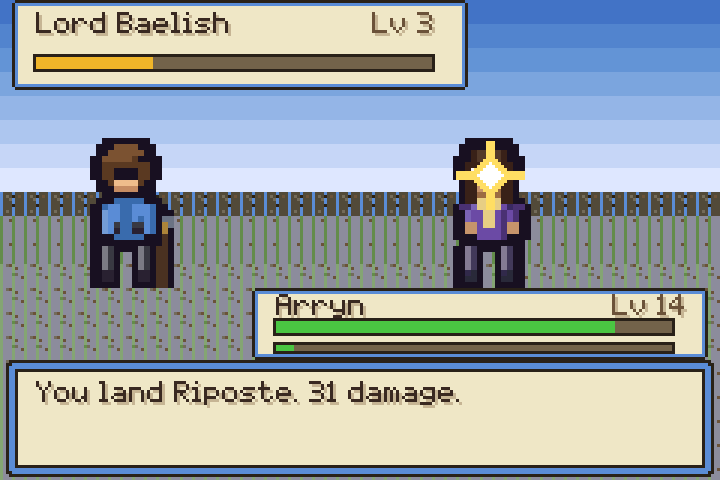
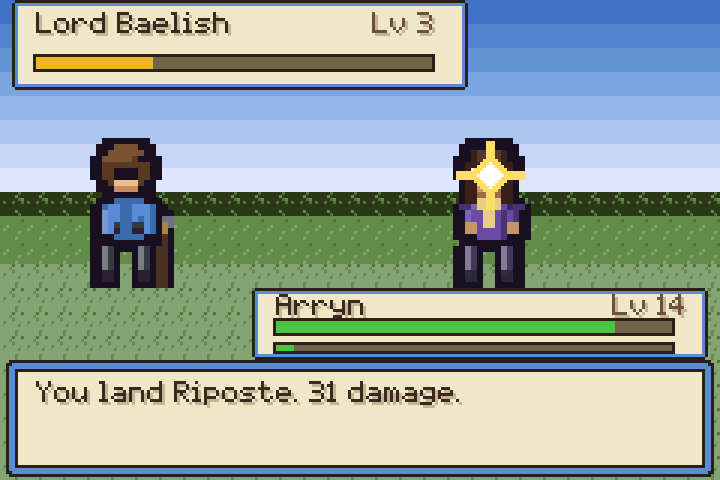
Paving laid back, so a wall can come forward
A stone town had the floor you walk on and the walls you cannot at the same
value, in the same grey, in the same size of block. In a grass town it is
obvious where the ground ends; in the Eyrie the street, the houses and the
keep were one continuous surface and nothing in the picture said which of it
you could stand on.

The paving is darker and flatter now, with the joint coming up out of near
black, and there are four courses of it instead of one, so a yard does not
tile into graph paper. The walls keep their contrast and their highlights
and read as upright.

Changed region(s): [[0.0, 0.375, 1.0, 1.0]]

diff --git a/src/art/tilesets.js b/src/art/tilesets.js
@@ -316,31 +316,93 @@ const COBBLE = [
 
 // --------------------------------------------------------- keep flagstone --
 
+/* Paving, laid back so a wall can come forward.
+ *
+ * A stone town had the floor you walk on and the walls you cannot at the
+ * same value, in the same grey, in the same size of block - so the Eyrie
+ * read as one continuous surface and nothing in it said where the ground
+ * ended. This is darker and flatter, with the joint coming up out of near
+ * black, and there are four courses of it rather than one, so a yard does
+ * not tile into graph paper. */
 const FLAG_KEY = {
-  m: '#6e6b64',
-  s: '#8d8a80',
-  h: '#9a978d',
-  d: '#7f7c74',
+  m: '#3f3c36',   // the joint, near black, so paving reads as laid
+  s: '#605d56',   // the face of a flag
+  h: '#6e6a63',   // its lit top edge
+  d: '#514e48',   // and the shadow at its foot
 };
 
 const FLAGSTONE = [
   [
     'mmmmmmmmmmmmmmmm',
-    'mhhhhhhhmhhhhhhm',
+    'mhhhhhhhmhhhhhhh',
     'msssssssmsssssss',
-    'msssssssmssssssm',
-    'msssssssmssssssm',
-    'msssssssmssssssm',
-    'mddddddmmmdddddm',
+    'msssssssmsssssss',
+    'msssssssmsssssss',
+    'msssssssmsssssss',
+    'mdddddddmddddddd',
     'mmmmmmmmmmmmmmmm',
-    'mhhhhhhmhhhhhhhm',
-    'mssssssmsssssssm',
-    'mssssssmsssssssm',
-    'mssssssmsssssssm',
-    'mssssssmsssssssm',
-    'mdddddmmmddddddm',
+    'hhhhmhhhhhhhmhhh',
+    'ssssmsssssssmsss',
+    'ssssmsssssssmsss',
+    'ssssmsssssssmsss',
+    'ssssmsssssssmsss',
+    'ddddmdddddddmddd',
     'mmmmmmmmmmmmmmmm',
-    'mhhhhhhhmhhhhhhm',
+    'mhhhhhhhmhhhhhhh',
+  ],
+  [
+    'mmmmmmmmmmmmmmmm',
+    'hhmhhhhhhhhmhhhh',
+    'ssmssssssssmssss',
+    'ssmssssssssmssss',
+    'ssmssssssssmssss',
+    'ddmddddddddmdddd',
+    'mmmmmmmmmmmmmmmm',
+    'hhhhhhmhhhhhhhmh',
+    'ssssssmsssssssms',
+    'ssssssmsssssssms',
+    'ddddddmdddddddmd',
+    'mmmmmmmmmmmmmmmm',
+    'hhmhhhhhhhhmhhhh',
+    'ssmssssssssmssss',
+    'ssmssssssssmssss',
+    'ddmddddddddmdddd',
+  ],
+  [
+    'mmmmmmmmmmmmmmmm',
+    'hhhhhmhhhhhhhhhh',
+    'sssssmssssssssss',
+    'sssssmssssssssss',
+    'sssssmssssssssss',
+    'sssssmssssssssss',
+    'sssssmssssssssss',
+    'dddddmdddddddddd',
+    'mmmmmmmmmmmmmmmm',
+    'hmhhhhhhhhmhhhhh',
+    'smssssssssmsssss',
+    'smssssssssmsssss',
+    'smssssssssmsssss',
+    'smssssssssmsssss',
+    'smssssssssmsssss',
+    'dmddddddddmddddd',
+  ],
+  [
+    'mmmmmmmmmmmmmmmm',
+    'hhhmhhhhhhhhmhhh',
+    'sssmssssssssmsss',
+    'sssmssssssssmsss',
+    'dddmddddddddmddd',
+    'mmmmmmmmmmmmmmmm',
+    'hhhhhhhmhhhhhhhh',
+    'sssssssmssssssss',
+    'sssssssmssssssss',
+    'dddddddmdddddddd',
+    'mmmmmmmmmmmmmmmm',
+    'hmhhhhhhhmhhhhmh',
+    'smsssssssmssssms',
+    'smsssssssmssssms',
+    'dmdddddddmddddmd',
+    'mmmmmmmmmmmmmmmm',
   ],
 ];
 

diff --git a/gba/build.h b/gba/build.h
@@ -1,1 +1,1 @@
-#define BUILD_STAMP "2026-08-28 02:05"
+#define BUILD_STAMP "2026-08-28 02:07"
